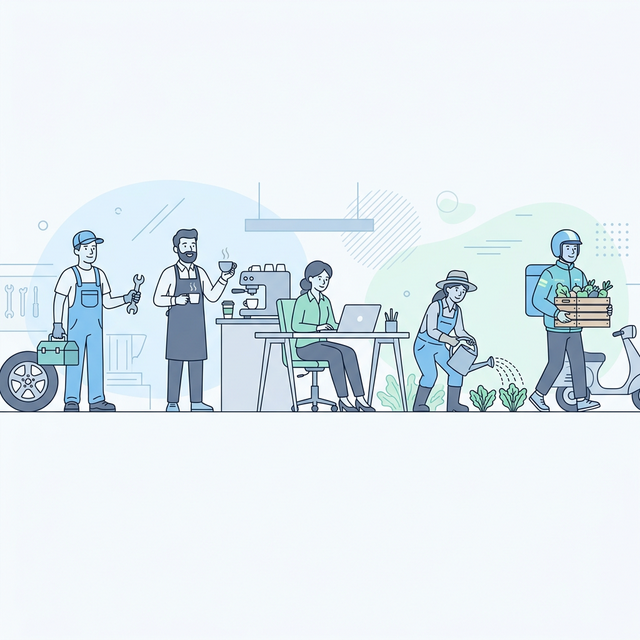
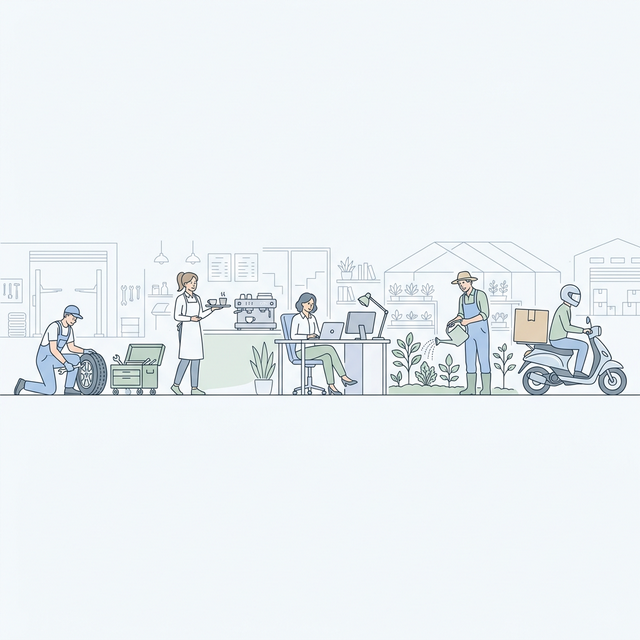
feat: new panoramic hero illustration, spanned edge-to-edge as a floor

Changed region(s): [[0.0, 0.3125, 1.0, 0.6562]]

diff --git a/frontend/src/pages/Home.tsx b/frontend/src/pages/Home.tsx
@@ -110,7 +110,7 @@ const Home: React.FC = () => {
           src="/hero-illustration.png"
           alt="Professionals across industry sectors"
           className="absolute bottom-0 left-0 w-full pointer-events-none"
-          style={{ height: '38vh', objectFit: 'contain', objectPosition: 'bottom center' }}
+          style={{ height: '38vh', objectFit: 'cover', objectPosition: 'bottom center' }}
         />
 
       </section>
